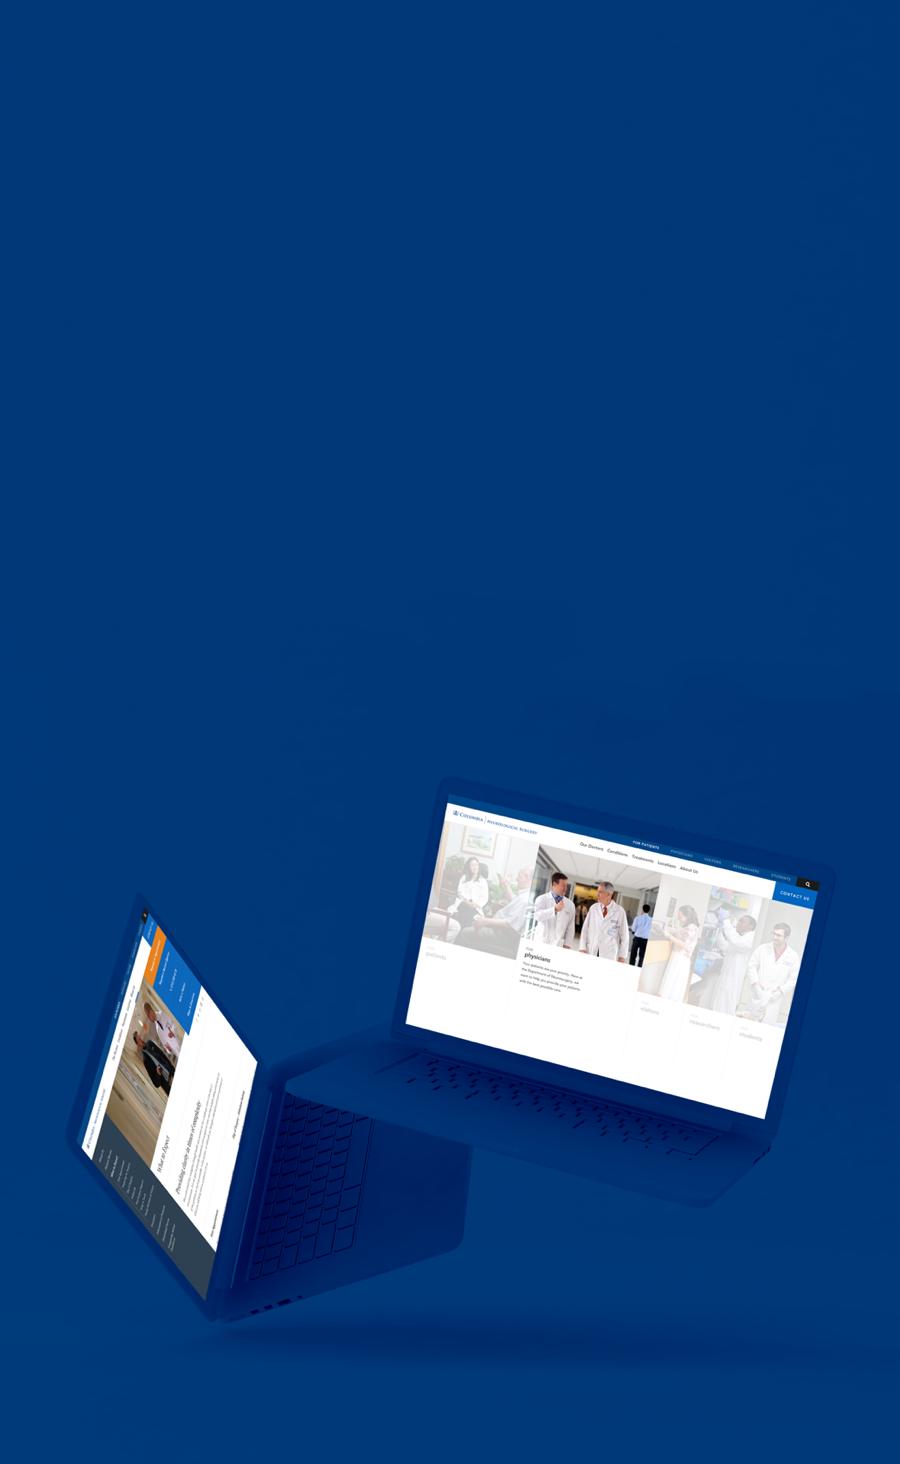
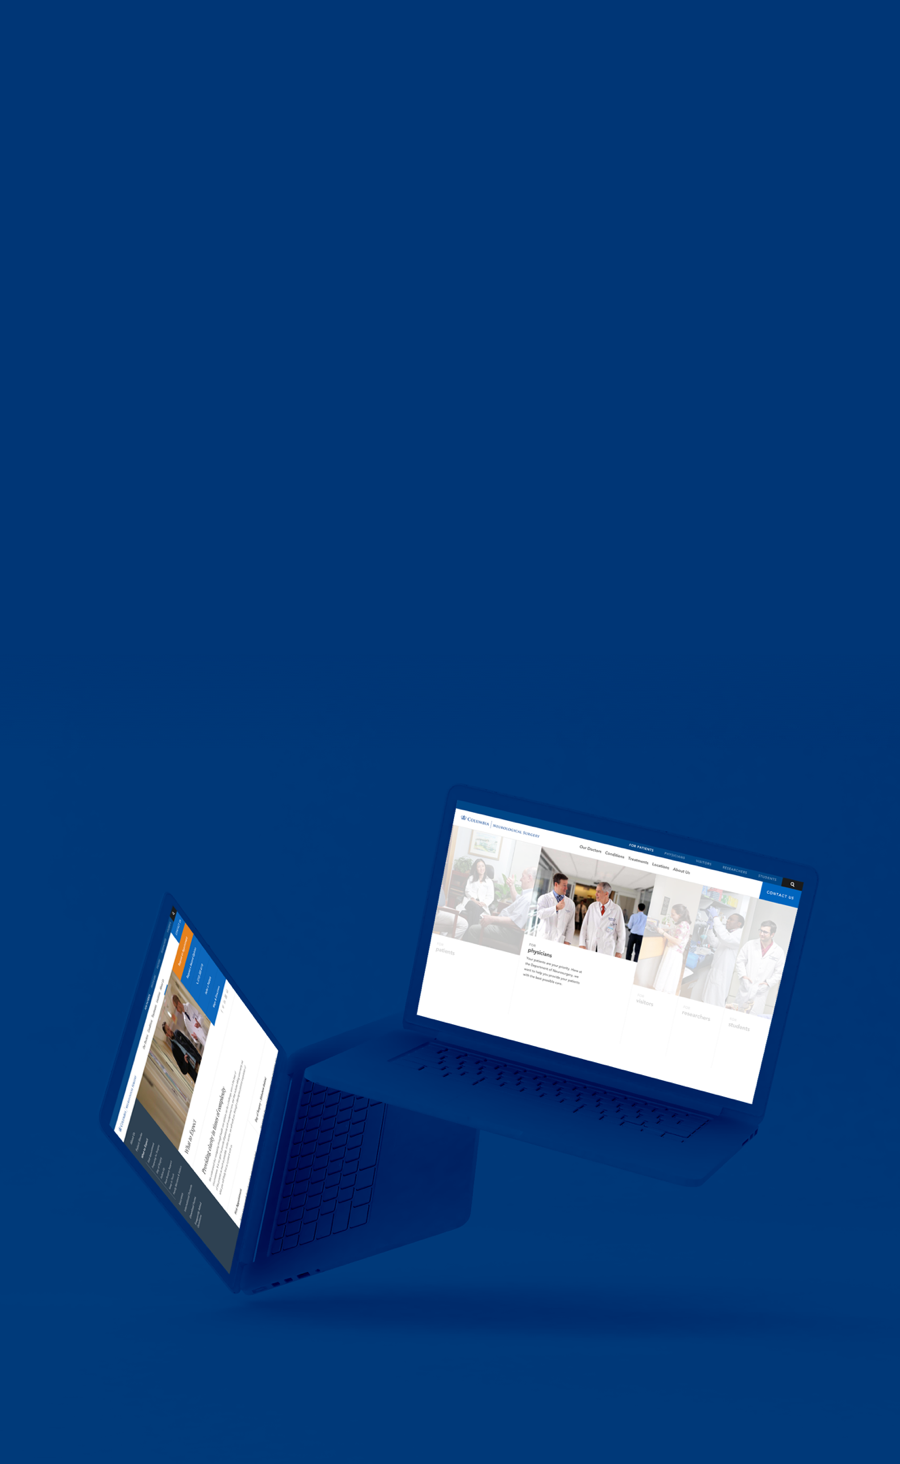
bugs fixed

Changed region(s): [[0.4356, 0.5533, 0.9022, 0.7684], [0.0933, 0.6148, 0.4044, 0.8914]]

diff --git a/CSS/style.css b/CSS/style.css
@@ -626,6 +626,7 @@ h2 {
   }
   .notification {
     right: 6vw;
+    width: 300px;
   }
   .description-wpr {
     display: block;
@@ -640,8 +641,8 @@ h2 {
     height: 80vh;
   }
   .hero-columbia .case-header {
-    width: 350px;
-    top: 30%;
+    width: 300px;
+    top: 25%;
   }
 
 }
